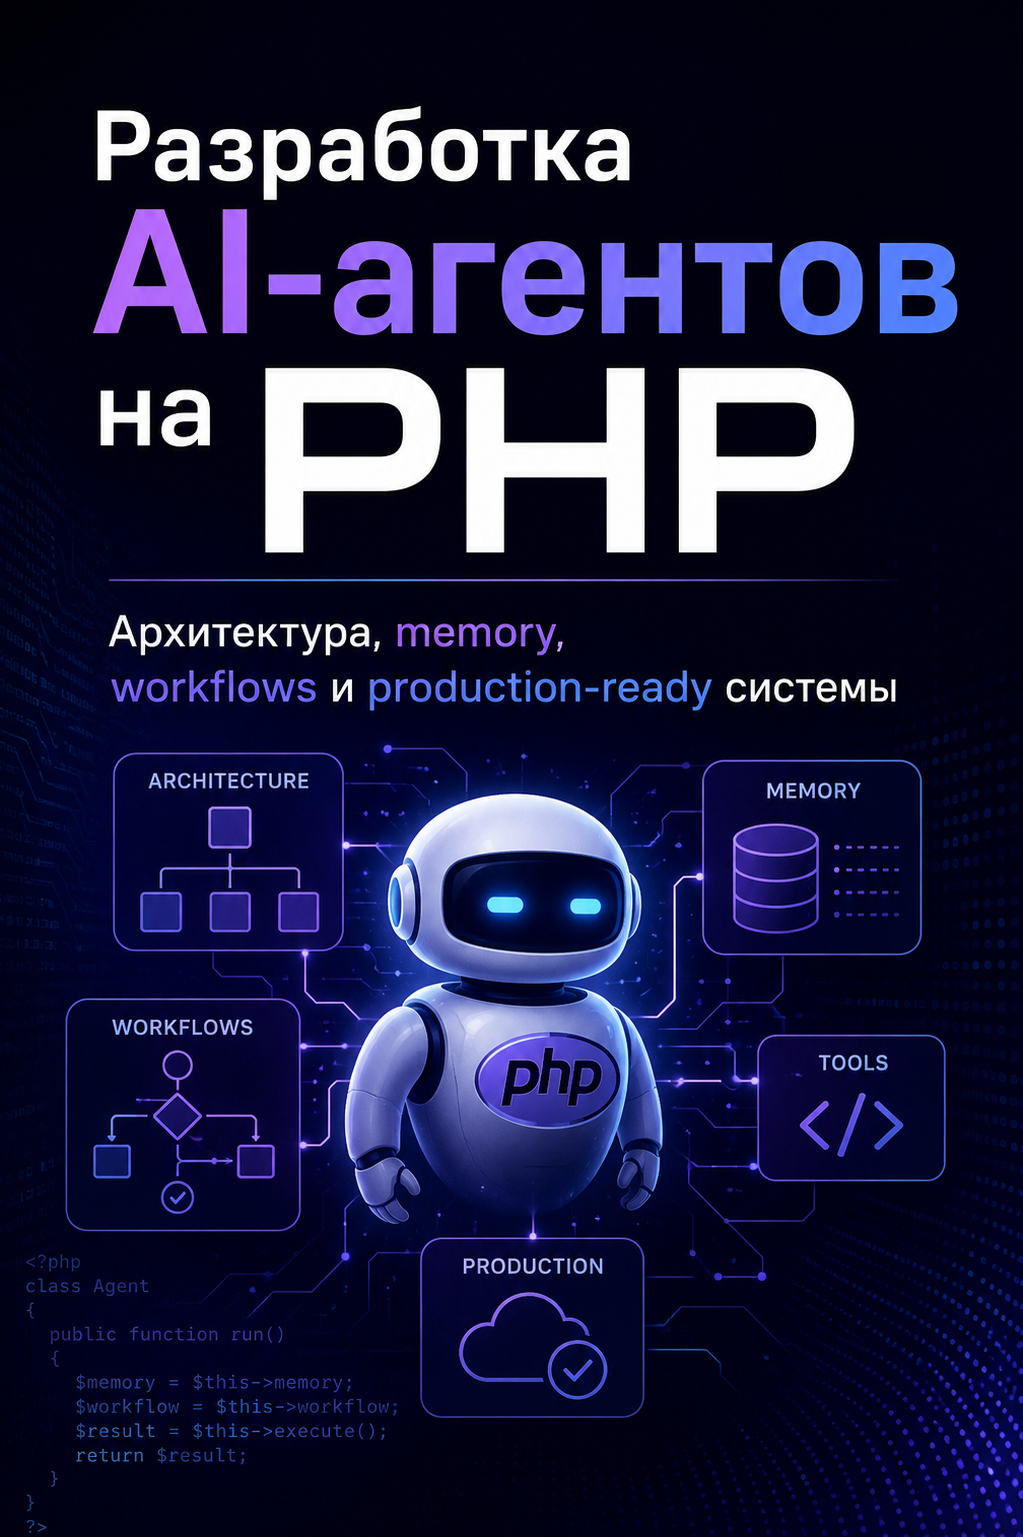
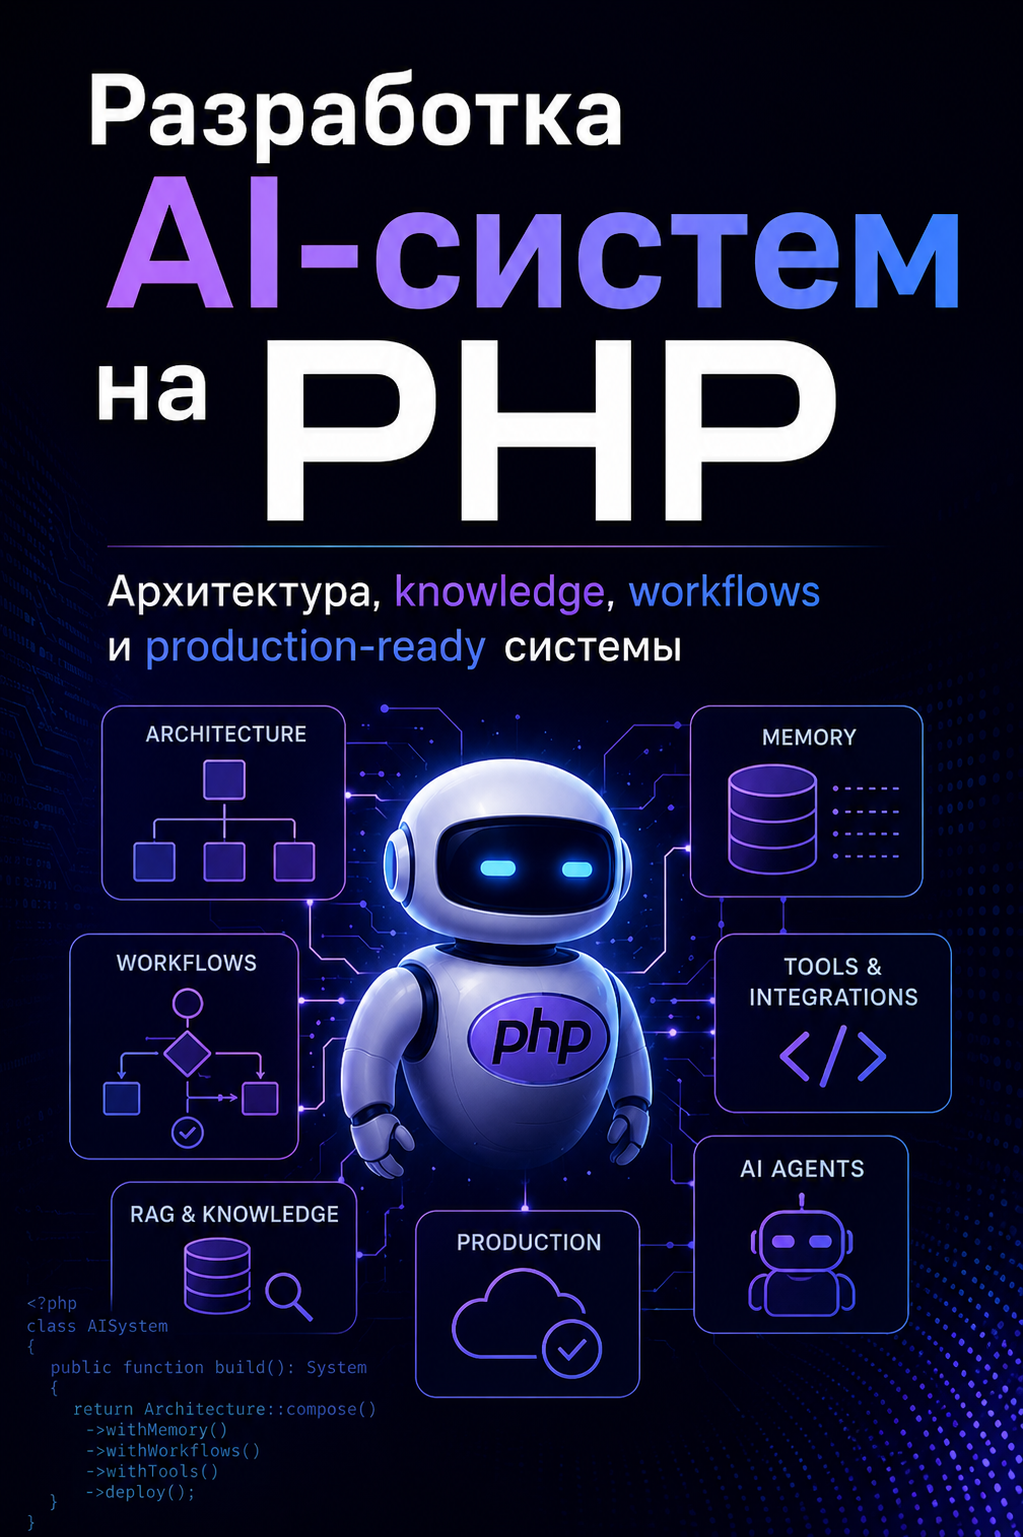
GITBOOK-122: No subject

diff --git a/README.md b/README.md
@@ -1,5 +1,5 @@
 ---
-description: Разработка AI-агентов на PHP
+description: Разработка AI-систем на PHP
 ---
 
 # Титульный лист
